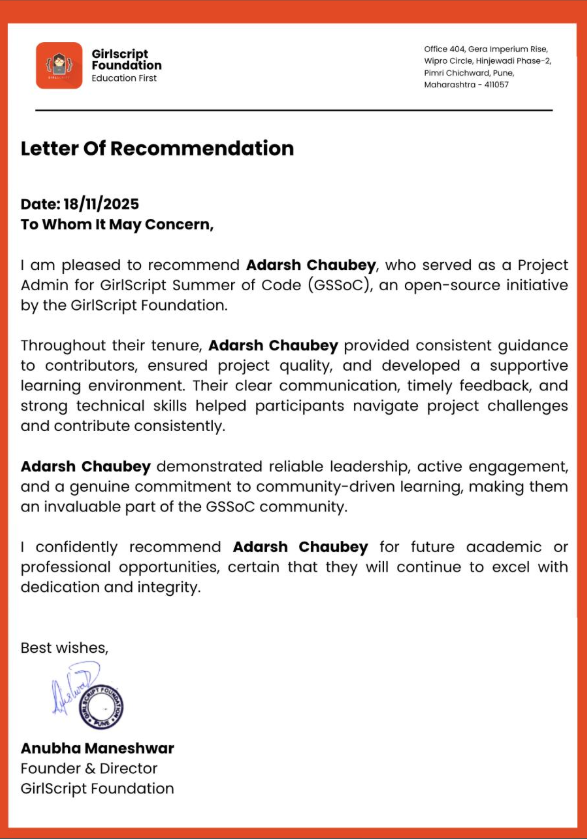
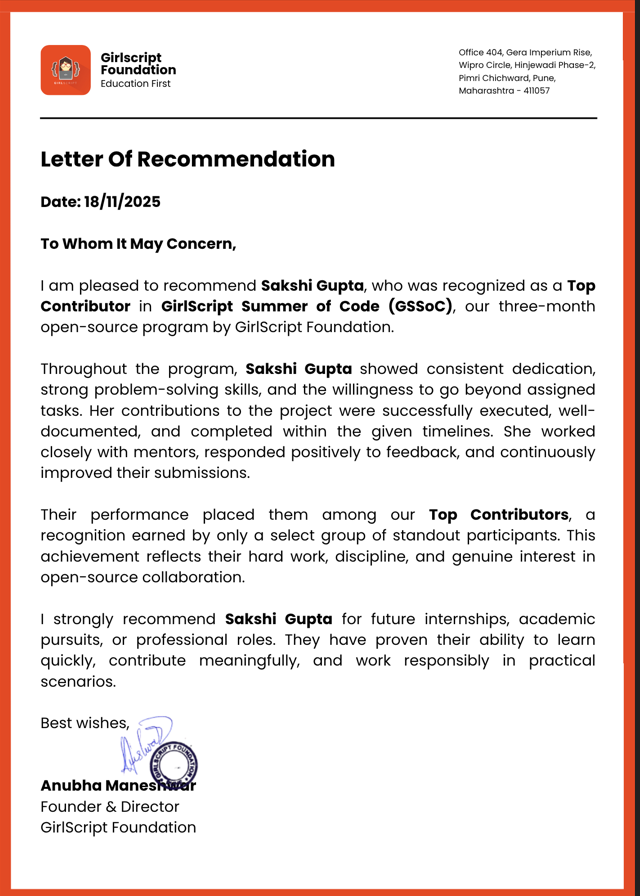
updated

Changed region(s): [[0.0, 0.0, 1.0, 1.0], [0.0613, 0.062, 0.276, 0.093]]

diff --git a/app/data/profile.js b/app/data/profile.js
@@ -120,21 +120,21 @@ export const CERTIFICATES = [
   {
     title: "IEEE Hacksagon Finalist",
     subtitle: "@ ABV-IIITM Gwalior",
-    url: "#",
+    url: "https://drive.google.com/file/d/15N9MGHvPR_DiFpmTktjN4dvcRGF3leJG/view?usp=sharing",
     cover: "/c2.png",
     logo: "/gwalior.png",
   },
   {
     title: "GSSOC 25 - Top 1%",
     subtitle: "GirlScript Summer of Code",
-    url: "#",
+    url: "https://drive.google.com/file/d/1_Exm0zPuvZhGQIrNiya-SDqav_QKlahK/view?usp=sharing",
     cover: "/c1.png",
     logo: "/gssoc.png",
   },
   {
     title: "LOR - GSSOC Founder",
     subtitle: "GirlScript Summer of Code",
-    url: "#",
+    url: "https://drive.google.com/file/d/15kwhwQ_nZ-kqkm8GHeMPesxNIWLmxc6I/view?usp=sharing",
     cover: "/LOR.png",
     logo: "/gssoc.png",
   },

diff --git a/app/sections/Hero.jsx b/app/sections/Hero.jsx
@@ -94,8 +94,9 @@ export default function Hero() {
                 Contact
               </a>
               <a
-                href="/resume.pdf"
-                download
+                href="https://drive.google.com/file/d/1e0zA-IQEc5BWD8YE6FPKbXBl4HymksoT/view?usp=sharing"
+                target="_blank"
+                rel="noopener noreferrer"
                 className="inline-flex items-center justify-center gap-1.5 sm:gap-2 px-3 py-2 sm:px-5 sm:py-3 rounded-lg glass-card border border-primary-cyan/20 text-xs sm:text-sm font-semibold text-white transition-all duration-200 ease-out hover:border-primary-cyan/50 hover:-translate-y-0.5 hover:scale-[1.02] focus:outline-none focus:ring-2 focus:ring-primary-cyan/40"
               >
                 <svg
